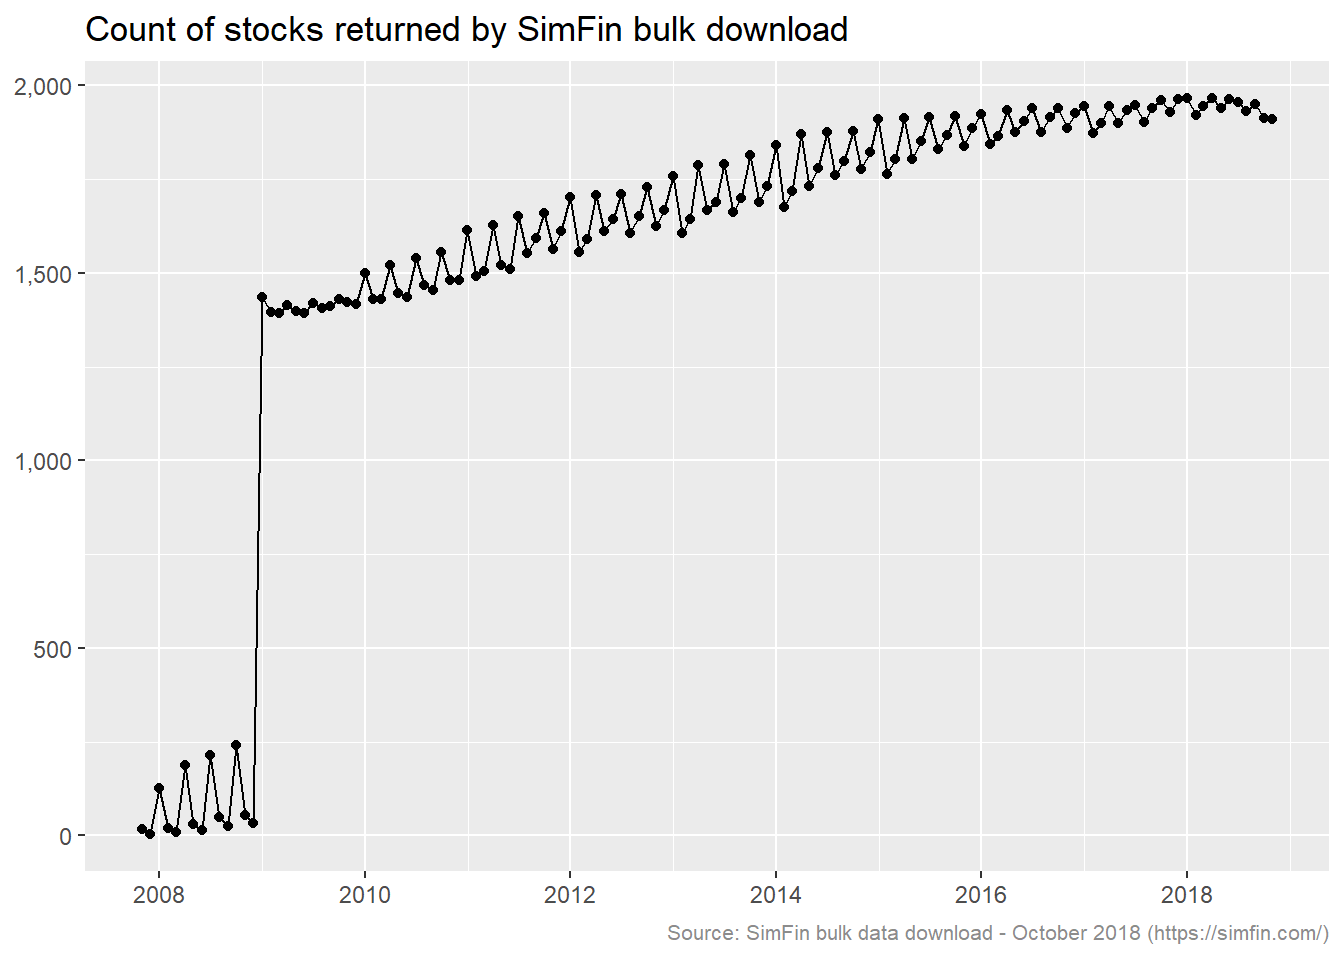
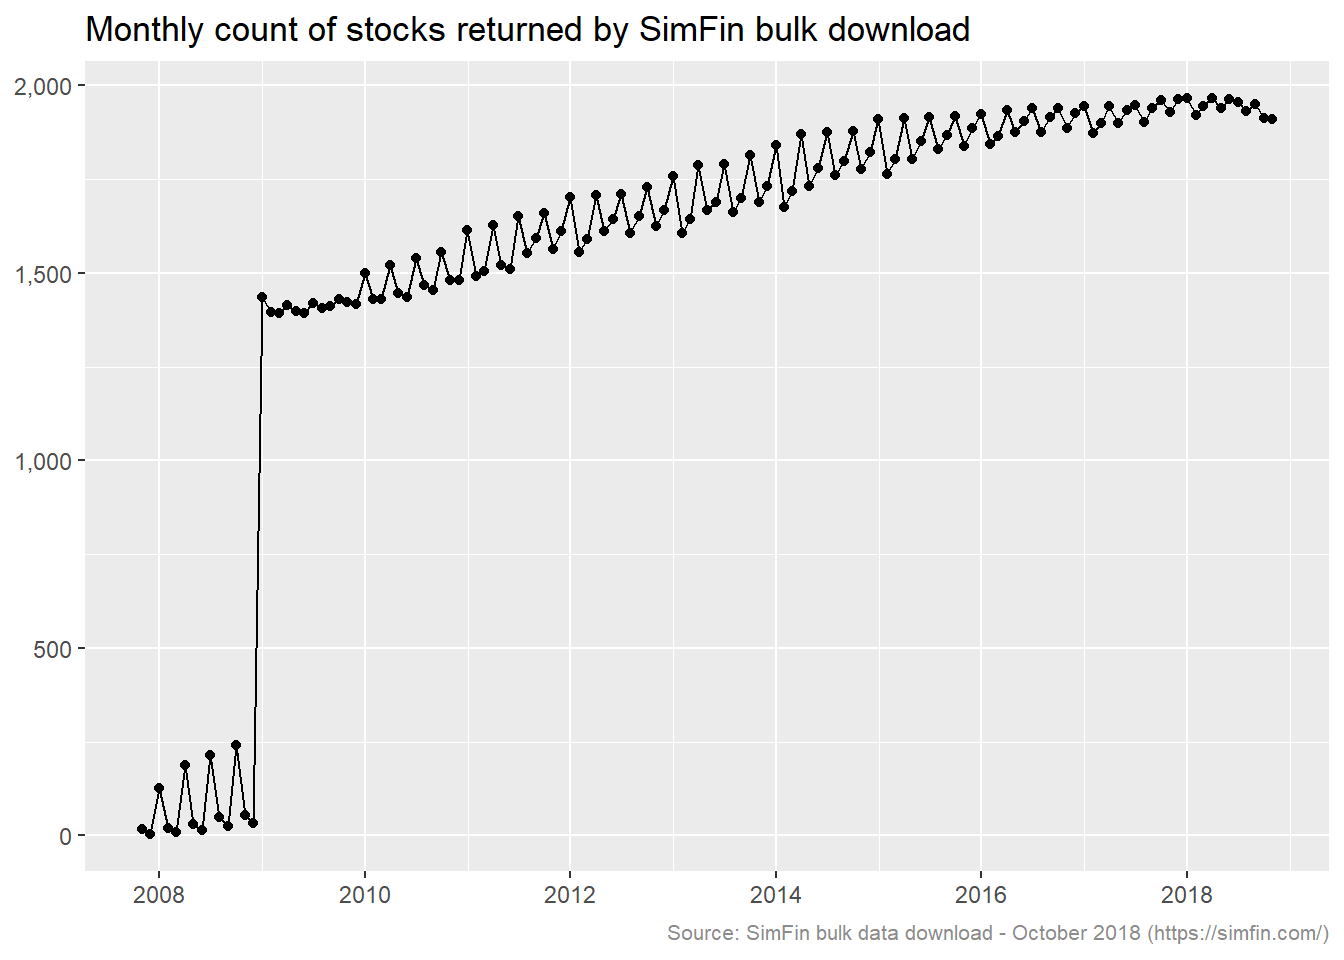
Wording revision

Changed region(s): [[0.0625, 0.0, 0.7188, 0.0625]]

diff --git a/content/post/2019-02-10-ifrs9-disclosures.html b/content/post/2019-02-10-ifrs9-disclosures.html
@@ -14,16 +14,18 @@ topics: []
 
 
 
-<p>This series of posts will deal with the preparation of <em>International Financial Reporting Standard 9 - Financial Instruments</em> (“IFRS9”) disclosures for a bank. In particular, the reconciliation tables that are required to account for movements in loan balances and expected credit losses over a reporting period. Why do we want to do this?</p>
-<p>The reconciliation tables disclose a flow of loan balances over time, accounting for draw downs, repayments and other cash flows. This requires complex data transformation and data modelling which can be executed in R using the dplyr package. Preparing the IFRS9 disclosures on a novel data set (detail below) will provide practice in data exploration, transformation and modelling skills using R. In addition, this will also provides an excellent opportunity to learn the same skills in Python using the pandas library.</p>
+<p>This series of posts will deal with the preparation of <em>International Financial Reporting Standard 9 - Financial Instruments</em> (“IFRS9”) disclosures for a bank. In particular, the reconciliation tables that are required to account for movements in loan balances and expected credit losses over a reporting period.</p>
+<p>This is a somewhat arcane topic. Why do we want to do this?</p>
+<p>IFRS9 is a relatively new accounting standard and the reconciliation tables disclose a flow of loan balances over time, accounting for draw downs, repayments and other cash flows. This contrasts to pre IFRS9 disclosures which for the most part disclose loan and related balances at a point in time. Preparing these type of disclosures requires complex data transformation and data modelling which can be executed in R using the <code>dplyr</code> package. Preparing the IFRS9 disclosures on a novel data set will provide practice in data exploration, cleaning, transformation and modelling skills using R. In addition, this will also provides an excellent opportunity to learn the same skills in Python using the <code>pandas</code> library.</p>
 <div id="the-problem-statement" class="section level3">
 <h3>The problem statement</h3>
 <p>We have been asked to prepare the IFRS9 figures for a bank (let’s call it “Bank1000”). Bank1000 will exclusively provide all debt financing to the top 1,000 US companies by market capitalisation. Therefore, when a company leaves the top 1,000 stocks by market capitalisation, it pays back its debt to Bank1000 and refinances its debt with another bank. Similarly, if a company joins the top 1,000 and has debt, it refinances that debt with Bank1000.</p>
-<p>Bank1000 must comply with IFRS9 and related disclosures. This means it must divide its loan portfolio of 1,000 borrowers into 3 risk stages, and having chosen to use the individual as opposed to the collective assessment method, estimate an expected credit loss (“ECL”) for each loan.</p>
-<p>In addition, Bank1000 is required to prepare the disclosures mentioned above, providing a reconciliation of the opening and closing ECL and loan balance amounts. These disclosures are to be segmented by the 3 risk stages detailing transfers between stages.</p>
-<p>The requirements of IFRS 9 are summarised by the BIS, <a href="https://www.bis.org/fsi/fsisummaries/ifrs9.pdf">IFRS 9 and expected loss provisioning - Executive Summary</a> (pdf). The reconciliation disclosures mentioned above have come to resemble something like the table format below <a href="https://www.ey.com/Publication/vwLUAssets/ey-ctools-good-bank-ifrs-9-nov-2017/$FILE/ey-ctools-good-bank-ifrs-9-nov-2017.pdf">EY Illustrative disclosures for IFRS9</a>.</p>
+<p>Bank1000 must comply with IFRS9 and related disclosures. This means it must divide its loan portfolio of 1,000 borrowers into 3 risk stages, and having chosen to use the individual as opposed to the collective expected credit loss (“ECL”) assessment method, estimate an ECL for each loan.</p>
+<p>In addition, Bank1000 is required to prepare the disclosures mentioned above, providing a reconciliation of the opening and closing ECL and loan balance amounts. These disclosures are to be segmented by the 3 risk stages, detailing transfers between stages.</p>
+<p>The requirements of IFRS 9 are nicely summarised by the BIS in this document, <a href="https://www.bis.org/fsi/fsisummaries/ifrs9.pdf">IFRS 9 and expected loss provisioning - Executive Summary</a> (pdf). The reconciliation disclosures mentioned above have come to resemble something like the table format below, from <a href="https://www.ey.com/Publication/vwLUAssets/ey-ctools-good-bank-ifrs-9-nov-2017/$FILE/ey-ctools-good-bank-ifrs-9-nov-2017.pdf">EY Illustrative disclosures for IFRS9</a> (pdf).</p>
 <p><img src="/IFRS9ey.png" /></p>
-<p>In order to perform this exercise we will need fundamental data on U.S. companies. The remainder of this post will deal with data acquisition and exploratory data analysis. Future posts will look at creating an expected credit loss balance and risk stage, and finally modelling the disclosures referred to above.</p>
+<p>In order to perform this exercise we will need fundamental data on U.S. companies. The debt liabilities of the companies we collect data on will represent the loan gross carrying amount asset amount shown above.</p>
+<p>The remainder of this post will deal with data acquisition and exploratory data analysis. Future posts will look at creating an expected credit loss balance and risk stage, and finally modelling the disclosures referred to above.</p>
 </div>
 <div id="financial-data" class="section level2">
 <h2>Financial data</h2>
@@ -42,7 +44,7 @@ library(&quot;kableExtra&quot;)</code></pre>
 <pre class="r"><code># Read from csv - readr
 simfin &lt;- as_tibble(read_csv(file=&quot;C:/Users/brent/Documents/R/R_import/output-comma-narrow.csv&quot;)) %&gt;% 
   
-  # Convert date and rename Industry code
+  # Rename attributes
   rename_all(list(~str_replace_all(., &quot; &quot;, &quot;.&quot;))) %&gt;% 
   rename(Industry = Company.Industry.Classification.Code)</code></pre>
 <p>and view the data structure.</p>
@@ -98,6 +100,9 @@ simfin &lt;- as_tibble(read_csv(file=&quot;C:/Users/brent/Documents/R/R_import/o
 ## [55] &quot;EV / Sales&quot;                       &quot;Book to Market&quot;                  
 ## [57] &quot;Operating Income / EV&quot;            &quot;Enterprise Value&quot;                
 ## [59] &quot;EV / EBITDA&quot;</code></pre>
+<p>There are two price related attributes, “Share price” and “Market capitalisation”. The remaining attributes are fundamental or accounting balances and metrics derived therefrom.</p>
+<div id="initial-checks-on-the-data" class="section level3">
+<h3>Initial checks on the data</h3>
 <p>Let’s commence exploring this data by performing some checks. The code below looks for duplicates across <code>Ticker</code>, <code>Indicator.Name</code> and <code>publish.date</code>.</p>
 <pre class="r"><code>df.dupes.1 &lt;- simfin %&gt;% group_by(Ticker, Indicator.Name, publish.date) %&gt;% 
   filter(n() &gt; 1) %&gt;% arrange(Ticker, Indicator.Name, publish.date)
@@ -113,7 +118,7 @@ head(df.dupes.1)</code></pre>
 ## 4 AGN        61474   106005 Abnormal Gains/Lo~ 2014-11-05                0 
 ## 5 AGN       442340   106005 Accounts Payable   2014-08-05              300 
 ## 6 AGN        61474   106005 Accounts Payable   2014-08-05             2443.</code></pre>
-<p>There are multiple stocks with the same ticker. For example the entries under ticker ARMK (not shown above but identified after interrogating the underlying data frame) are distinguished by SimFin ID. An internet search on this ticker shows a de-listed stock labelled “ARMK.RU”. We can therefore conclude that our data genuinely contains multiple tickers and that these are distinguished by the SimFin ID.</p>
+<p>There are multiple stocks with the same ticker. For example the entries under ticker ARMK (not shown above but identified after interrogating the underlying data frame) are distinguished by <code>SimFin.ID</code>. An internet search on this ticker shows a de-listed stock labelled “ARMK.RU”. We can therefore conclude that our data genuinely contains multiple tickers and that these are distinguished by the <code>SimFin.ID</code>.</p>
 <p>Let’s re-run the analysis including the <code>SimFin.ID</code> attribute in the group by clause.</p>
 <pre class="r"><code># Convert date to end of month
 df.dupes.2 &lt;- simfin %&gt;% group_by(Ticker, SimFin.ID, Indicator.Name, publish.date) %&gt;% 
@@ -140,7 +145,7 @@ head(df.dupes.3)</code></pre>
 ## 4 AGN        61474   106005 Share Price    2008-12-29              24.4
 ## 5 AGN       442340   106005 Share Price    2008-12-30              25.2
 ## 6 AGN        61474   106005 Share Price    2008-12-30              25.2</code></pre>
-<p>It appears that identical data is appended to different <code>Ticker</code> / <code>SimFin.ID</code> combinations. This indicates that one instance of the value returned is incorrect. Ideally we want to exclude known incorrect values, however in this situation we do not know which record to exclude. We will proceed on the basis that the market capitalisation filtering performed at a subsequent step will exclude the incorrect data.</p>
+<p>It appears that identical data is appended to different <code>Ticker</code> / <code>SimFin.ID</code> combinations. There are 25 stocks and 128176 data points in the data frame above. This indicates that one instance of the value returned is incorrect. It is highly unlikely two different stocks have the same price and fundamental data point values. Ideally we want to exclude known incorrect values, however in this situation we do not know which record to exclude. We will proceed on the basis that the market capitalisation filtering performed at a subsequent step will exclude the incorrect data.</p>
 <p>Let’s get an idea of the number of stocks returned. The number of distinct stocks returned on an aggregated monthly basis is plotted below.</p>
 <pre class="r"><code># Convert date to end of month &amp; count stocks by month
 df.plot1 &lt;- simfin %&gt;% mutate(me.date = ceiling_date(publish.date, unit = &quot;month&quot;) - 1) %&gt;% 
@@ -151,13 +156,13 @@ ggplot(data = df.plot1, aes(x = me.date, y = stock.count)) +
   geom_line() +
   geom_point() +
   scale_y_continuous(labels = comma) +
-  labs(title = &quot;Count of stocks returned by SimFin bulk download&quot;,
+  labs(title = &quot;Monthly count of stocks returned by SimFin bulk download&quot;,
        caption = &quot;Source: SimFin bulk data download - October 2018 (https://simfin.com/)&quot;) +
   theme_grey() +
   theme(axis.title.x = element_blank(), axis.title.y = element_blank(),
         plot.caption = element_text(size = 8, color = &quot;grey55&quot;))</code></pre>
 <p><img src="/post/2019-02-10-ifrs9-disclosures_files/figure-html/code_chunk_10-1.png" width="672" /></p>
-<p>The count of stocks reaches circa 1,300 starting 2009 and gradually increases thereafter (we will ignore pre 2009 due to the count being significantly lower). The count appears to be around 100 higher on quarter end months during the years 2011 through 2015. Let’s investigate the driver of this. The code below selects all stocks with data in the months of February 2014 and March 2014. We then filter for stocks that are not in both months.</p>
+<p>The count of stocks reaches circa 1,300 starting 2009 and gradually increases thereafter (we will ignore pre 2009 due to the count being significantly lower). The count appears to be around 100 higher on quarter end months during the years 2011 through 2015. Let’s investigate the driver of this. The code below selects all stocks with data in the months of February 2014 and March 2014, and then filters for stocks that are not in both months.</p>
 <pre class="r"><code>df.qtrend &lt;- simfin %&gt;% mutate(me.date = ceiling_date(publish.date, unit = &quot;month&quot;) - 1) %&gt;% 
   filter(between(me.date, as.Date(&quot;2014-02-28&quot;), as.Date(&quot;2014-03-31&quot;))) %&gt;% 
   select(me.date, Ticker) %&gt;% distinct() %&gt;% mutate(value = &quot;present&quot;) %&gt;% spread(me.date, value) %&gt;% 
@@ -180,7 +185,7 @@ dim(df.qtrend)</code></pre>
 ##  8 DLTH       present      &lt;NA&gt;        
 ##  9 FLWD       present      &lt;NA&gt;        
 ## 10 LEN        present      &lt;NA&gt;</code></pre>
-<p>Of the 185 cases there are 168 that have data in March 2014 and no data in February. Conversely there are 17 cases with data in February but not in March. Let’s take a case from each of the categories identified above and inspect the attributes returned when they are present.</p>
+<p>Of the 185 cases there are 168 that have data in March 2014 and no data in February. Conversely there are 17 cases with data in February but not in March. Let’s take a case from each of the categories identified above and inspect the attributes returned for the month they are present.</p>
 <pre class="r"><code>simfin %&gt;% filter(Ticker %in% c(&#39;ACPW&#39;, &#39;BXRO&#39;), 
            between(publish.date, as.Date(&quot;2014-02-01&quot;), as.Date(&quot;2014-03-31&quot;))) %&gt;% 
   select(Indicator.Name) %&gt;% distinct(Indicator.Name)</code></pre>
@@ -199,10 +204,11 @@ dim(df.qtrend)</code></pre>
 ## 10 Income Taxes             
 ## # ... with 41 more rows</code></pre>
 <p>Inspecting the underlying object reveals that there is no price or market capitalisation data available for these stocks. If there are certain stocks that have only fundamental data returned, it makes sense that more records are returned on quarter end dates when the prior quarters results are published. We will keep this lack of price data in mind as we progress.</p>
+</div>
 <div id="data-periodicity" class="section level3">
 <h3>Data periodicity</h3>
-<p>Visual inspecting of the raw SimFin data via the variable explorer reveals that the share price and market capitalisation are returned on a daily basis while the fundamental data is returned on a quarterly basis.</p>
-<p>Let’s see if we can confirm this observation. We expect that an average of 4 data points will be returned per annum for the fundamental data attributes since these are returned quarterly. We expect circa 250 price and market capitalisation data points per annum since these are returned on weekdays.</p>
+<p>Visual inspecting of the raw SimFin data via the variable explorer reveals that the share price and market capitalisation are returned on a daily basis, while the fundamental data is returned on a quarterly basis.</p>
+<p>Let’s see if we can confirm this observation. We expect that an average of 4 data points will be returned per annum for the fundamental data attributes since these are returned quarterly. We expect circa 250 price and market capitalisation data points per annum since price is collected on weekdays.</p>
 <pre class="r"><code># Convert date to year, filter for full years post 2008
 df.plot2 &lt;- simfin %&gt;% 
   mutate(ye.date = year(publish.date), 
@@ -239,6 +245,7 @@ plot_grid(df.plot2.p, df.plot2.f, align = c(&quot;h&quot;))</code></pre>
 <p><img src="/post/2019-02-10-ifrs9-disclosures_files/figure-html/code_chunk_13-1.png" width="672" /></p>
 <p>There are on average 3.8 fundamental data attribute returned per stock per year. This is in line with expectations, the count is slightly less than 4 quarterly data points reflecting the impact of de-listed stocks.</p>
 <p>There are on average 250 share price data points returned for each stock per year. This is in line with expectation. There are on average 300 market capitalisation data points per stock per year. This exceeds the stock price data points and requires looking into.</p>
+<p>This code block selects stocks where the count of <code>Market capitalisation</code> exceeds <code>Share price</code>.</p>
 <pre class="r"><code>df.check.att.1 &lt;- simfin %&gt;%
   filter(publish.date &gt;= as.Date(&quot;2010-01-01&quot;) &amp; publish.date &lt;= as.Date(&quot;2010-12-31&quot;),
          Indicator.Name %in% c(&quot;Share Price&quot;, &quot;Market Capitalisation&quot;)) %&gt;% 
@@ -280,7 +287,7 @@ head(df.check.att.2, 30)</code></pre>
 ## 3 Saturday            29
 ## 4 Sunday              22
 ## 5 Thursday             1</code></pre>
-<p>It looks like the market capitalisation is being returned on weekends and potentially public holidays. This accounts for the higher number of market cap records being returned.</p>
+<p>It looks like the market capitalisation is being returned on weekends and potentially public holidays. This accounts for the higher number of market cap records being returned. This is not an issue for our analysis.</p>
 </div>
 <div id="concluding-on-exploratory-data-analysis" class="section level3">
 <h3>Concluding on exploratory data analysis</h3>
@@ -290,7 +297,7 @@ head(df.check.att.2, 30)</code></pre>
 </div>
 <div id="filtering-by-market-capitalisaton" class="section level2">
 <h2>Filtering by market capitalisaton</h2>
-<p>We want to select the largest 1,000 companies for our loan portfolio and have decided that the indicator for determining size is market capitalization. Let’s plot the average market capitalisation for each month for all stocks in the bulk data download. This will indicate if there are outliers or other problems in the data.</p>
+<p>We want to select the largest 1,000 companies for our loan portfolio and have decided that the indicator for determining size is market capitalisation. Let’s plot the average market capitalisation for each month for all stocks in the bulk data download. This will indicate if there are outliers or other problems in the data.</p>
 <pre class="r"><code>df.plot3 &lt;- simfin %&gt;% filter(Indicator.Name == &quot;Market Capitalisation&quot;) %&gt;% 
   mutate(me.date = ceiling_date(publish.date, unit = &quot;month&quot;) - 1) %&gt;% 
   select(me.date, Indicator.Value) %&gt;% 
@@ -301,7 +308,7 @@ ggplot(data = df.plot3, aes(x = me.date, y = mkt.cap)) +
   geom_point() +
   scale_y_continuous(labels = comma) +
   ylab(&quot;Market cap (millions)&quot;) +
-  labs(title = &quot;Average market capitalisation for 2,000 largest stocks&quot;,
+  labs(title = &quot;Average market capitalisation - Simfin bulk data download&quot;,
        caption = &quot;Source: SimFin bulk data download - October 2018 (https://simfin.com/)&quot;) +
   theme_grey() +
   theme(axis.title.x = element_blank(),
@@ -309,7 +316,7 @@ ggplot(data = df.plot3, aes(x = me.date, y = mkt.cap)) +
         plot.caption = element_text(size = 9, color = &quot;grey55&quot;))</code></pre>
 <p><img src="/post/2019-02-10-ifrs9-disclosures_files/figure-html/code_chunk_16-1.png" width="672" /></p>
 <p>Something is obviously incorrect. For example the average market capitalisation of all stocks in February 2010 is 21 billion, this increases to 69 billion in April and by January 2011 is down to 10 thousand. The count of records for these dates is relatively consistent at 19k, 22k and 31k respectively (as mentioned earlier, market cap is provided daily and there are around 1,500 stocks). The count on the last date is higher, this will reflect the SimFin site collecting more data points over time. This last data point calls the issue out in much starker terms, the individual market capitalisation values must be drastically smaller. Looking over to the forum on the SimFin site finds a number of discussion around this issue. Explanations discussed include incorrect underlying data on the SEC site, unit inconsistency and share count problems.</p>
-<p>Given the state of the market cap data, it doesn’t appear feasible to clean this via some sort of outlier removal technique. Let’s instead infer the market value from the book to market ratio. This will entail dividing the total book equity by the book to market ratio. Note that the code below pads the time series with all month end dates and fills the market cap value for each stock. This is required because the Total Equity and Book to Market values are provided quarterly, while we want to analyse data on a monthly basis.</p>
+<p>Given the state of the market cap data, it doesn’t appear feasible to clean this via some sort of outlier removal technique. Let’s instead infer the market value from the book to market ratio. This will entail dividing the total book equity by the book to market ratio. The code block below does that. Note that this code pads the time series with all month end dates and fills the market cap value for each stock. This is required because the <code>Total Equity</code> and <code>Book to Market</code> values are provided quarterly, while we want to analyse data on a monthly basis.</p>
 <pre class="r"><code>df.plot4 &lt;- simfin %&gt;% filter(Indicator.Name %in% c(&quot;Book to Market&quot;, &quot;Total Equity&quot;)) %&gt;% 
   
   # Remove whitespace from values, assign month end date
@@ -378,7 +385,7 @@ ggplot(data = df.plot4, aes(x = me.date, y = mkt.cap)) +
 ## 18 JPM    2017-02-28     254190        0.819    310291.
 ## 19 GE     2017-02-28      80515        0.321    250669.
 ## 20 T      2017-02-28     124110        0.507    244938.</code></pre>
-<p>It appears spurious values of the book to market ratio are driving the large values of market cap, refer to tickers NAV and HIG for June 2011 and February 2017 respectively. Let’s try again, winsorizing the book to market ratio over the range 0.1 to 3. This to say that whenever we see a company with a market cap greater the 10 times its book value or less than a third of its book value, we expect the underlying book to market ratio is spurious, and hence limit the value thereof.</p>
+<p>It appears spurious values of the book to market ratio are driving the large values of market cap, refer to tickers NAV and HIG for June 2011 and February 2017 respectively. Let’s try again, winsorizing the book to market ratio over the range 0.1 to 3. This to say that whenever we see a company with a market cap greater the 10 times its book value or less than a third of its book value, we expect the underlying book to market ratio is spurious, and limit the value thereof.</p>
 <pre class="r"><code>df.plot5 &lt;- simfin %&gt;% filter(Indicator.Name %in% c(&quot;Book to Market&quot;, &quot;Total Equity&quot;)) %&gt;% 
   
   # Remove whitespace from values, assign month end date
@@ -483,7 +490,7 @@ mkt.cap %&gt;% filter(me.date == &quot;2010-02-28&quot; | me.date == &quot;2012-
 ## 18 ADTM   2012-02-29    NA            NA         0.232 
 ## 19 CMRO   2012-02-29    NA            NA         0.140 
 ## 20 RAVE   2012-02-29     0.00631       0.0001    0.0631</code></pre>
-<p>It should be noted that in the tables above, the NA’s are due to the fill function being applied only to the <code>mkt.cap</code> column as opposed to both the <code>TotalEquity</code> and <code>BooktoMarket</code> columns. In terms of the results, the market cap of the top 10 stocks appears to be consistent over the two dates. BRKA is an outlier whereby the book to market ratio returned at 2009-11-06 is 0.0251, this has been winsorised to 0.1 and applied to a book equity value of 135.7 billion, resulting in an inferred market cap of 1.36 trillion. The bottom 10 stocks is a different story however, the 2010 values average around 1.5 billion while the 2012 values are closer to 1 million. I suspect this is due to unit inconsistency.</p>
+<p>It should be noted that in the tables above, the NA’s are due to the fill function being applied only to the <code>mkt.cap</code> column as opposed to both the <code>TotalEquity</code> and <code>BooktoMarket</code> columns. In terms of the results, the market cap of the top 10 stocks appears to be consistent over the two dates. BRKA is an outlier whereby the book to market ratio returned at 2009-11-06 is 0.0251, this has been winsorised to 0.1 and applied to a book equity value of 135.7 billion. This results in an inferred market cap of 1.36 trillion. The bottom 10 stocks are a different story however, the 2010 values average around 1.5 billion while the 2012 values are closer to 1 million. I suspect this is due to unit inconsistency.</p>
 <p>We are interested only in the top 1,000 stocks. The analysis above indicates the highest market cap values are relatively correct (relative in the sense that the BRKA outlier referred to above does not invalidate our goal of selecting the top 1,000 stocks). We are not sure if the suspected unit inconsistency for low capitalisation stocks extends to the 1,000th value however. If we can plot a time series of say the 5th and 1,000th values of market capitalisation, and these do not significantly diverge, we can conclude the top 1,000 is relatively correct. This is good enough for our purposes.</p>
 <pre class="r"><code># Market cap construction
 mkt.cap %&gt;% filter(!is.na(mkt.cap)) %&gt;% nest(-me.date) %&gt;% 
